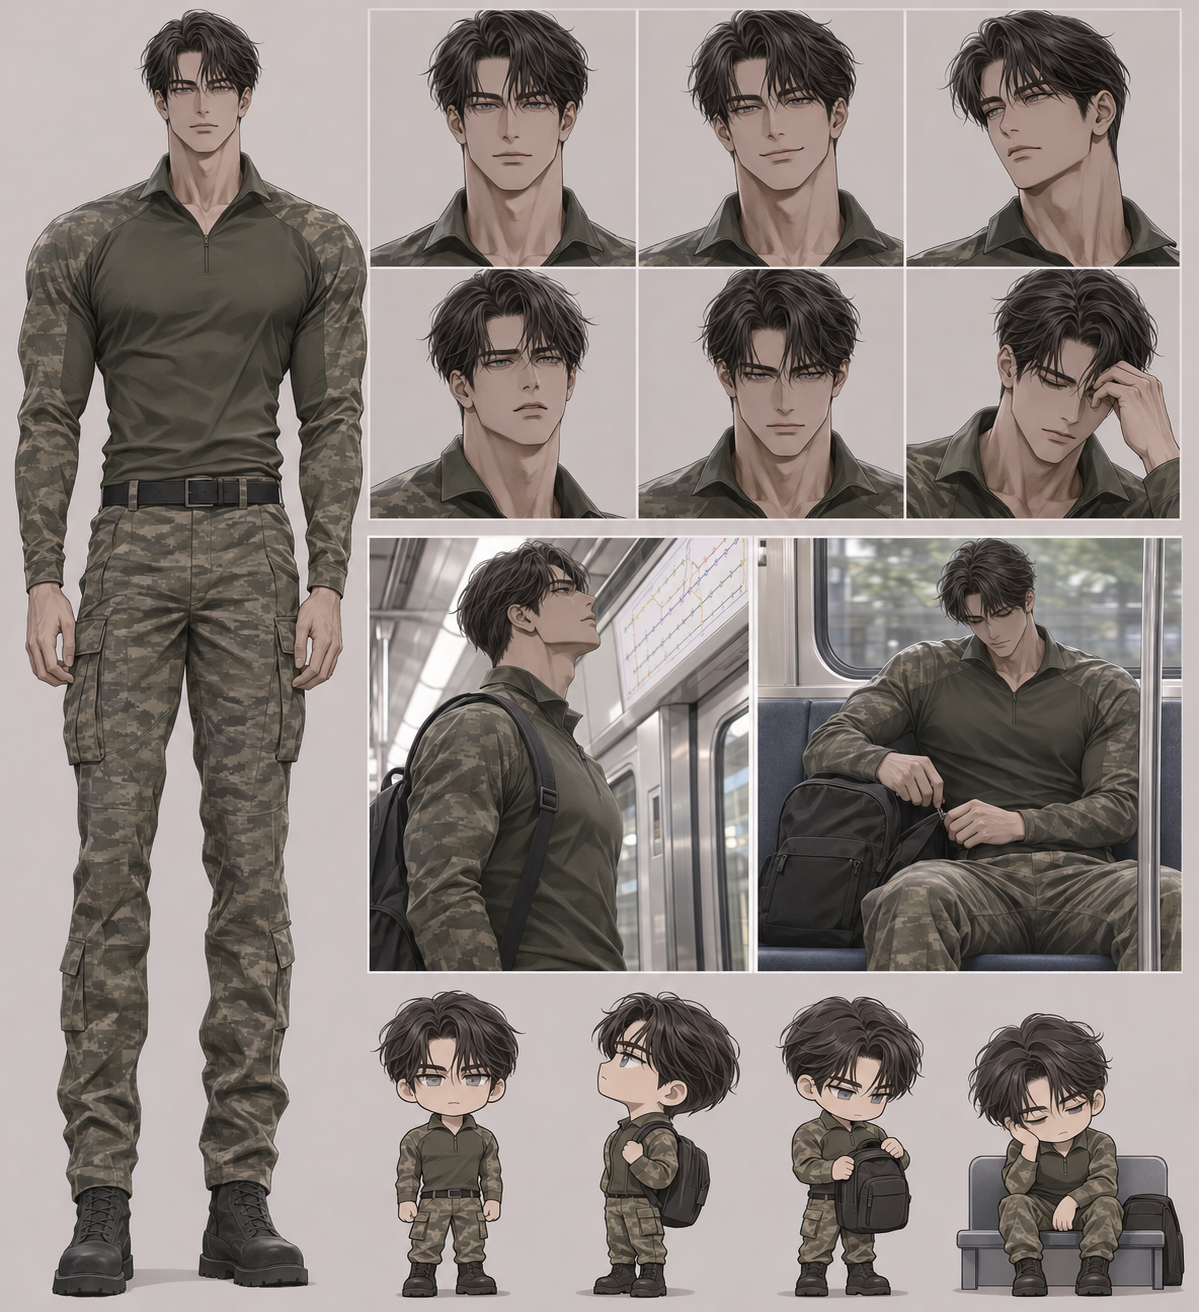
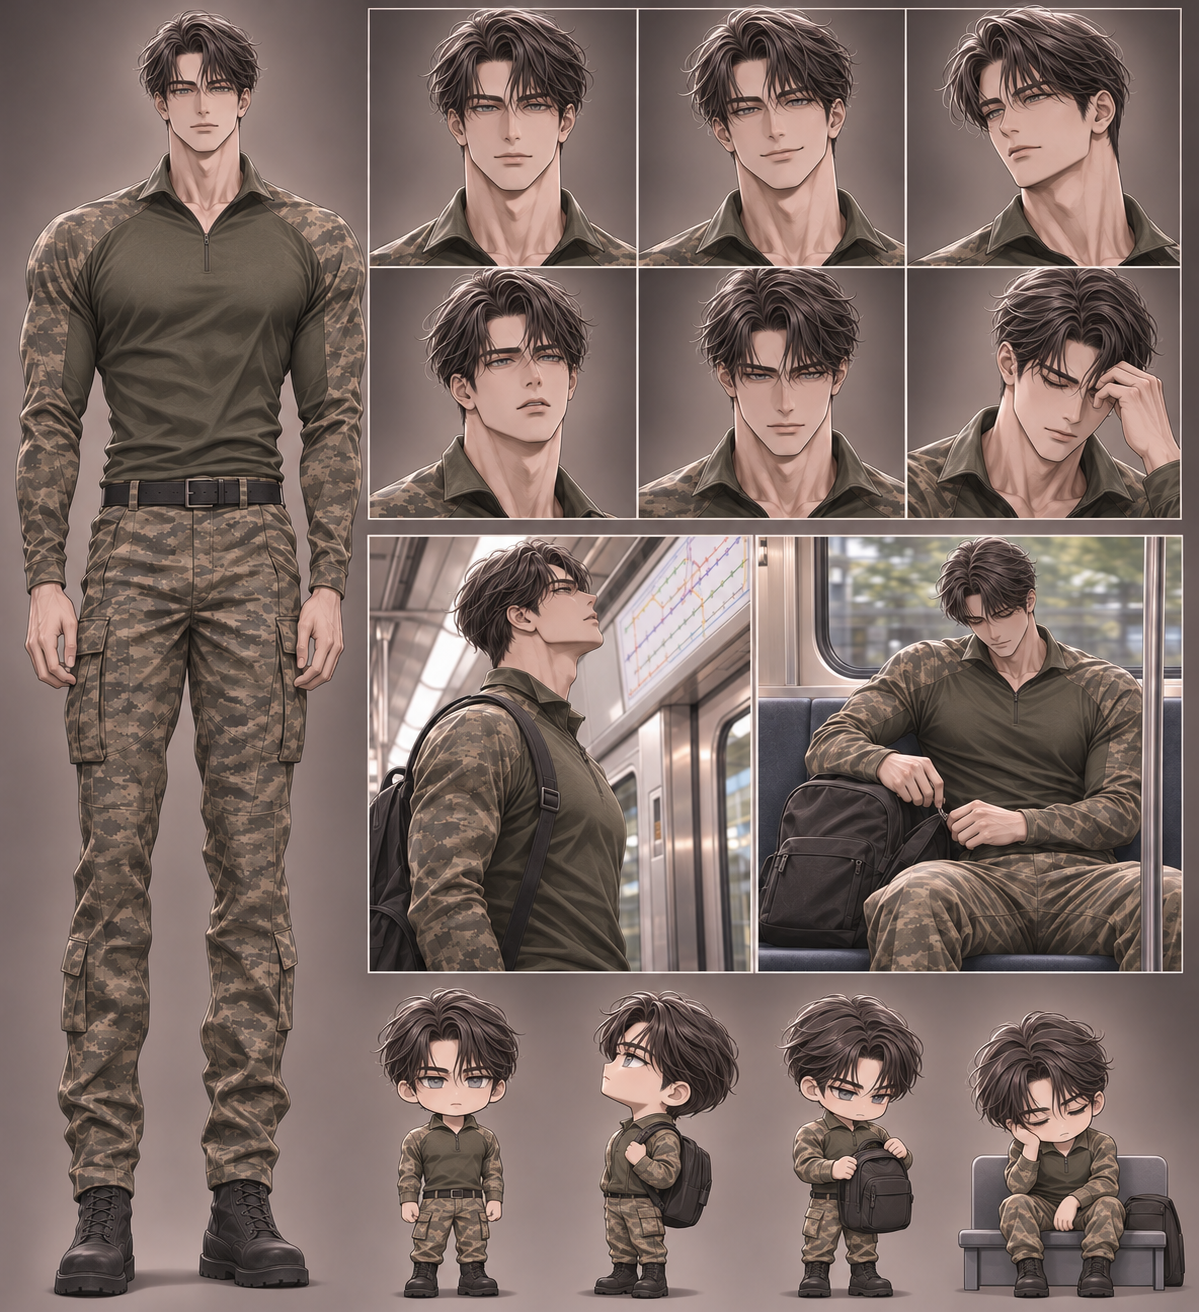
Align veteran artwork rendering with established character style

diff --git a/fantasy-rpg/WORLD_BIBLE.md b/fantasy-rpg/WORLD_BIBLE.md
@@ -839,3 +839,5 @@
 - 단독 이벤트 시안 2: 같은 칸에서 본인 가방을 챙기는 인물에게 자리 이동을 요청하거나 통로를 비켜준다. 각각 1분. 가방 컷신과 가방 든 SD를 사용한다. 대사 예시: 아, 지나가세요. 이쪽으로 치울게요.
 - 이름과 경력은 자기소개 전 자동 공개하지 않고, 만남으로 파티에 자동 등록하지 않는다. 이벤트 구현 시 완료 시 시간 확정, 중단 시 보류 시간 취소, 기존 엔진의 저장·복원을 따른다. 현재 이벤트는 초안이며 설치본에는 연결하지 않았다.
 - 통합 시트는 불투명 배경 미리보기이며 투명 게임용 스프라이트 아틀라스가 아니다.
+
+- 군인 원화 그림체 수정: 사용자 지적에 따라 각진 회색 셀 명암을 줄이고 기존 백도겸 원화를 직접 스타일 기준으로 삼아 가는 선·세밀한 머리카락·부드러운 피부와 입체 명암을 적용한 수정 시트로 교체했다. 외형·체격·복장 시안과 미정 설정은 유지한다.
